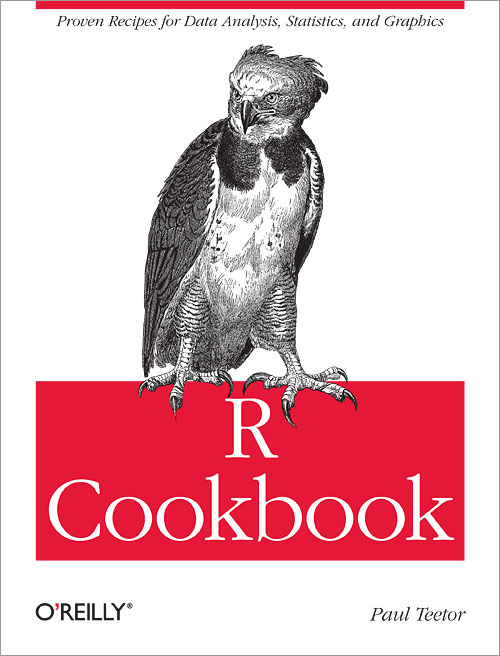
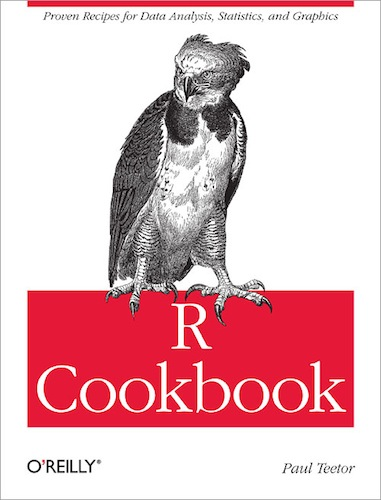
[slide] add reference, update content

diff --git a/slides/index.html b/slides/index.html
@@ -67,7 +67,7 @@
         margin: 20px !important;
       }
 
-      .reveal thead td {
+      .reveal thead td, .reveal tr.center td{
         text-align: center;
         padding-bottom: 20px;
       }
@@ -115,6 +115,7 @@
               </tr>
           </table>
         </section>
+<!-- Today's Topic and Scenario -->
         <section>
           <h2 class="morespace">今天主題</h2> 
           <p>除了畫圖，還是畫圖</p>
@@ -126,12 +127,16 @@
         <section>
           <h2>Deadline 前夕</h2>
           <img src="pics/deadline.jpg" alt="" />
-          <p><small>source: <a href="http://doingsomethingmoreforgod.blogspot.tw/2010/11/deadline-for-applications-fast_20.html">doingsomethingmoreforgod.blogspot.tw</a></small></p>
+          <p><small>
+            source: <a href="http://doingsomethingmoreforgod.blogspot.tw/2010/11/deadline-for-applications-fast_20.html">doingsomethingmoreforgod.blogspot.tw</a>
+          </small></p>
         </section>
         <section>
           <h2>等於開工的時候</h2>
           <img src="pics/deadline_eff.jpg" alt="" />
-          <p><small>source: <a href="http://www.hksilicon.com/kb/articles/112626/deadlineFinish">hksilicon.com</a></small></p>
+          <p><small>
+            source: <a href="http://www.hksilicon.com/kb/articles/112626/deadlineFinish">hksilicon.com</a>
+          </small></p>
         </section>
         <section>
           <h2 class="morespace">很容易生出這種圖表</h2>
@@ -168,6 +173,7 @@
             <li><span class="blue">搭配 R</span> 統計分析，直接呈現資料樣貌</li>
           </ul>
         </section>
+<!-- GOAL -->
         <section>
           <h2>今天的目標</h2>
           <table>
@@ -185,10 +191,49 @@
             </tr>
           </table>
         </section>
+        <section>
+          <h2>今天可能無法講到的主題</h2>
+          <ul class="morespace">
+            <li>資料前處理</li>
+            <li>圖表資料結構 hack</li>
+            <li>細部調整 → 麻煩參考官網說明 or 參考書</li>
+          </ul>
+        </section>
+<!-- Reference -->
+        <section>
+          <h2>參考書</h2>
+          <table>
+            <tr>
+              <td><img width="90%" src="pics/R_graphics_cookbook.jpg" alt="" /></td>
+              <td><img width="90%" src="pics/R_cookbook.jpg" alt="" /></td>
+              <td><img width="90%" src="pics/R_graphics.jpg" alt="" /></td>
+            </tr>
+            <tr class="center">
+              <td><span class="yellow">主要</span>參考這本</td>
+              <td>R 基礎語法</td>
+              <td>包含 ggplot2 等<br /> R 圖形套件</td>
+            </tr>
+          </table>
+          <p class='grey'>臺灣應該都買得到 Ex. 天壠書局</p>
+        </section>
+<!-- TOC -->
+        <section>
+          <h2 class="morespace">Topics</h2>
+          <ul>
+            <li class="grey">A</li>
+            <li class="grey">B</li>
+            <li class="grey">C</li>
+            <li class="grey">D</li>
+          </ul>
+        </section>
 <!-- THE END -->
         <section>
 					<h2>Q &amp; A</h2> 
           <img class="noeff" src="pics/chibird_end.jpg"/>
+          <p><small>
+            The set of images are made by 
+            <a href="http://chibird.com" target='_blank'>chibird</a>.
+          </small></p>
 				</section>
 
       </div><!-- slides -->
